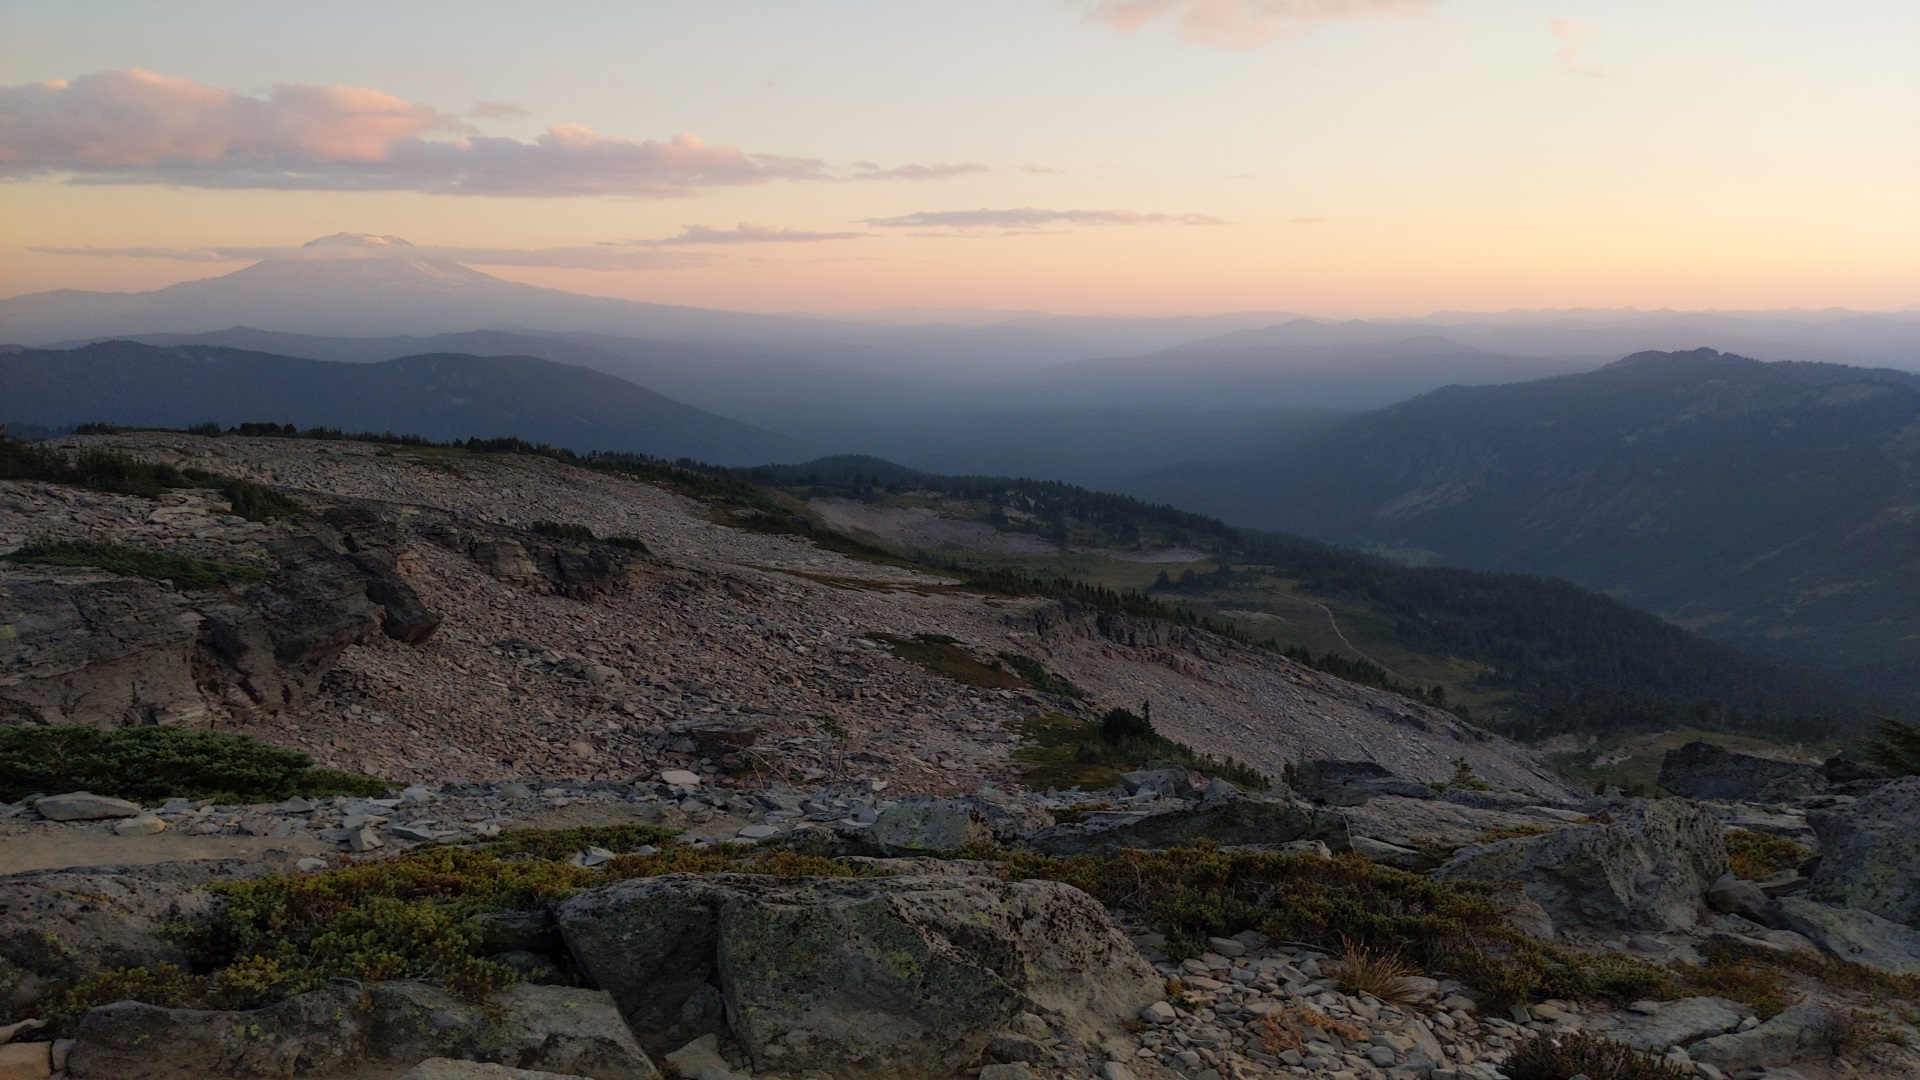
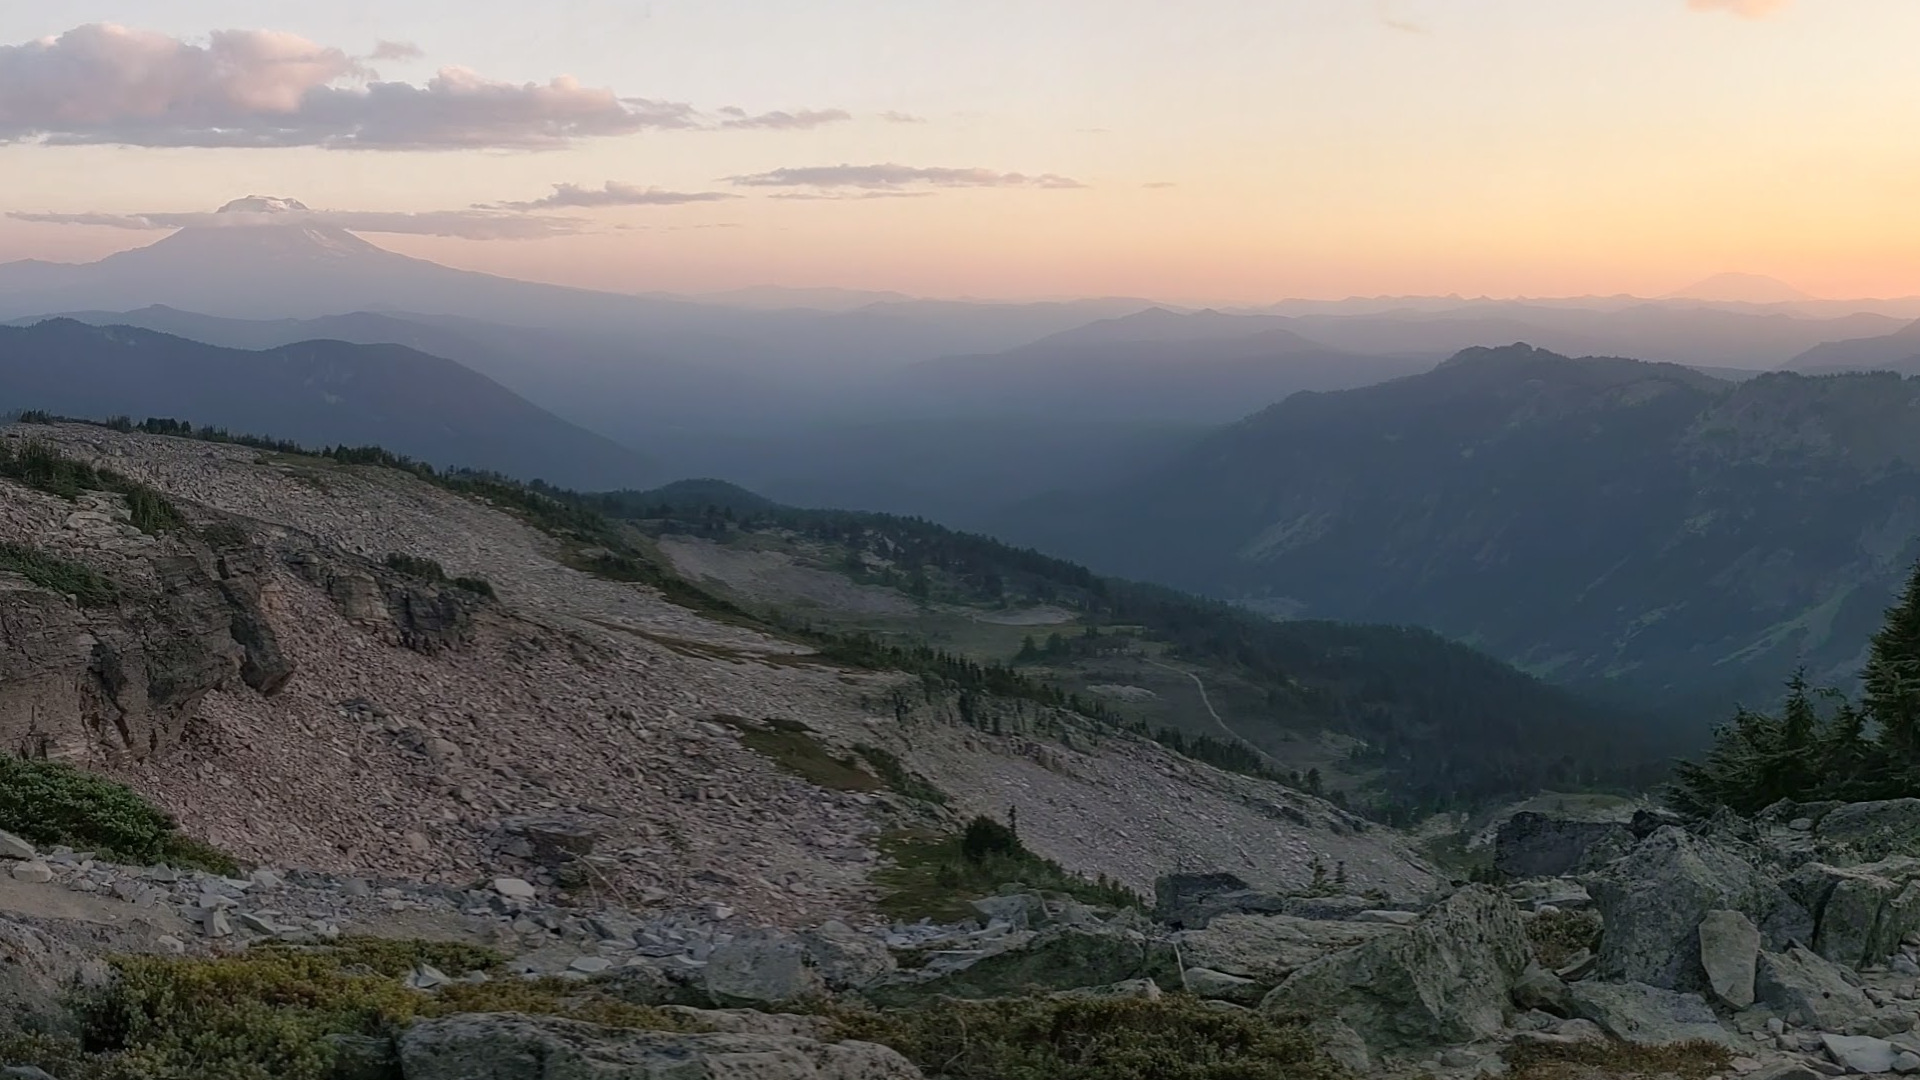
Changes 10/15

diff --git a/src/ts/config.ts b/src/ts/config.ts
@@ -24,9 +24,9 @@ export default {
     websceneItemId: "d0580bb5df3840d384bda44b6ddeb54e"
   },
   data: {
-    trailsServiceUrl: "https://services2.arcgis.com/cFEFS0EWrhfDeVw9/arcgis/rest/services/SwissNationalParkTrails/FeatureServer/0",
+    trailsServiceUrl: "https://services1.arcgis.com/pPBeL25iqasXLMk1/arcgis/rest/services/PCT_Walked/FeatureServer",
     trailAttributes: {
-      name: "Name",
+      day: "Day",
       id: "RouteId",
       difficulty: "Difficulty",
       walktime: "Hiketime",
@@ -35,8 +35,8 @@ export default {
       description: "Description"
     },
     filterOptions: {
-      singleChoice: ["difficulty", "status"], // have string values
-      range: ["walktime", "ascent"] // have numeric values
+      singleChoice: ["day"], // have string values
+      range: ["ascent"] // have numeric values
     }
   },
   colors: {
